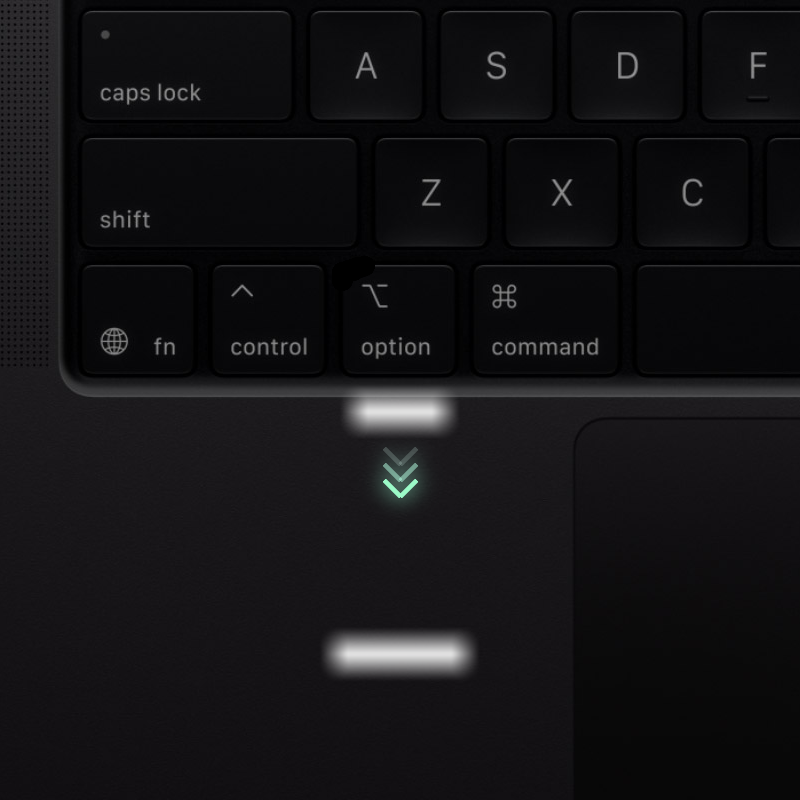
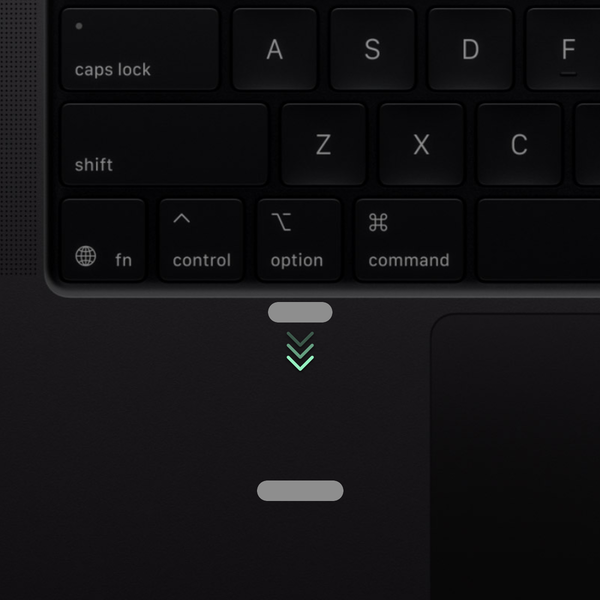
Redesign the DMG installer window smaller and cleaner [deploy]
- Shrink the window to 600x660 with 108 pt icons and 12 pt labels
- Replace the baked white label glows with compact mid-gray pills
- Swap the chevron bloom for a subtle drop shadow
- Update the layout verifier, infrastructure doc and art recipe

Changed region(s): [[0.42, 0.48, 0.57, 0.63], [0.39, 0.78, 0.6, 0.87]]

diff --git a/yen-terminal/customizations/dmg-resources/README.md b/yen-terminal/customizations/dmg-resources/README.md
@@ -5,41 +5,38 @@ The frozen window layout and packaging rules are in `_docs/05-infrastructure.md`
 
 | File | Size | Role |
 |------|------|------|
-| `background.png` | 800x800 | 1x background |
-| `background@2x.png` | 1600x1600 | 2x background |
+| `background.png` | 600x600 | 1x background |
+| `background@2x.png` | 1200x1200 | 2x background |
 
 Both must be opaque RGB: with an alpha channel, Finder's `set background picture` silently stores a background color instead of the image.
-The art is icon-only, with no baked labels; the three chevrons sit between the `YEN.app` and `Applications` icons.
+The art carries no baked label text.
+It has a mid-gray pill under each Finder label and three chevrons with a subtle drop shadow between the `YEN.app` and `Applications` icons.
+The pill rectangles match Finder's label boxes at icon size `108` and text size `12`; move them if the layout changes.
 
 ## Regenerating
 
-The source frame is `public/dmg-frame-2.png`.
+The source frame is `public/dmg-frame.png`.
+The art is drawn at 2x and then downscaled for 1x.
 
 ```bash
-magick public/dmg-frame-2.png \
-  \( -size 800x800 xc:none -fill none -stroke 'rgba(171,245,224,0.13)' -strokewidth 10 \
-     -draw "line 382,448 400,464 line 400,464 418,448" -blur 0x8 \) \
-  -compose screen -composite \
-  \( -size 800x800 xc:none -fill none -stroke 'rgba(155,248,215,0.30)' -strokewidth 10 \
-     -draw "line 382,464 400,480 line 400,480 418,464" -blur 0x9 \) \
-  -compose screen -composite \
-  \( -size 800x800 xc:none -fill none -stroke 'rgba(146,253,207,0.55)' -strokewidth 10 \
-     -draw "line 382,480 400,496 line 400,496 418,480" -blur 0x10 \) \
-  -compose screen -composite \
-  -fill none -stroke 'rgba(213,244,235,0.20)' -strokewidth 4 \
-  -draw "line 384,448 400,464 line 400,464 416,448" \
-  -stroke 'rgba(178,250,222,0.52)' \
-  -draw "line 384,464 400,480 line 400,480 416,464" \
-  -stroke 'rgba(157,253,202,0.98)' \
-  -draw "line 384,480 400,496 line 400,496 416,480" \
-  -alpha off -strip \
-  yen-terminal/customizations/dmg-resources/background.png
-magick yen-terminal/customizations/dmg-resources/background.png \
-  -resize 200% -alpha off -strip \
-  yen-terminal/customizations/dmg-resources/background@2x.png
-sips -g pixelWidth -g pixelHeight \
-  yen-terminal/customizations/dmg-resources/background.png \
-  yen-terminal/customizations/dmg-resources/background@2x.png
+P="stroke-linecap round stroke-linejoin round"
+C1="$P polyline 576,666 600,690 624,666"
+C2="$P polyline 576,690 600,714 624,690"
+C3="$P polyline 576,714 600,738 624,714"
+OUT=yen-terminal/customizations/dmg-resources
+magick public/dmg-frame.png -resize 1200x1200 \
+  -fill '#8e8e8e' -stroke none \
+  -draw "roundrectangle 536,604 664,644 20,20" \
+  -draw "roundrectangle 514,961 686,1001 20,20" \
+  \( -size 1200x1200 xc:none -fill none -stroke 'rgba(0,0,0,0.6)' -strokewidth 6 \
+     -draw "$C1" -draw "$C2" -draw "$C3" -blur 0x3 -roll +0+3 \) -compose over -composite \
+  -fill none -strokewidth 6 \
+  -stroke 'rgba(157,253,202,0.30)' -draw "$C1" \
+  -stroke 'rgba(157,253,202,0.60)' -draw "$C2" \
+  -stroke 'rgba(157,253,202,0.95)' -draw "$C3" \
+  -alpha off -strip "$OUT/background@2x.png"
+magick "$OUT/background@2x.png" -resize 600x600 -alpha off -strip "$OUT/background.png"
+sips -g pixelWidth -g pixelHeight -g hasAlpha "$OUT/background.png" "$OUT/background@2x.png"
 ```
 
 Then run `scripts/manual/14-verify-dmg-layout.sh` against a fresh packaging build.

diff --git a/_docs/05-infrastructure.md b/_docs/05-infrastructure.md
@@ -156,10 +156,11 @@ The Debug and ReleaseLocal files also carry `com.apple.security.cs.disable-libra
 
 Frozen installer layout, enforced by `scripts/manual/14-verify-dmg-layout.sh`:
 
-- Icon view with toolbar and status bar hidden, arrangement `not arranged`, window `815x860`.
-- Icon size `144` (full-bleed opaque icons read oversized at `124`), label size `16`.
-- `YEN.app {400,321}`, `Applications {400,560}`; `.background {400,1008}` and `.fseventsd {400,1048}` parked below the frame.
-- `background.png` (800x800) and `background@2x.png` (1600x1600) from `public/dmg-frame-2.png`, icon-only art with no baked labels. The chevron recipe lives in `yen-terminal/customizations/dmg-resources/README.md`.
+- Icon view with toolbar and status bar hidden, arrangement `not arranged`, window `600x660`.
+- Icon size `108`, label size `12`.
+- `YEN.app {300,241}`, `Applications {300,420}`; `.background {300,760}` and `.fseventsd {300,800}` parked below the frame.
+- `background.png` (600x600) and `background@2x.png` (1200x1200) from `public/dmg-frame.png`, with no baked labels. The recipe lives in `yen-terminal/customizations/dmg-resources/README.md`.
+- Finder draws icon labels in the system text color (black in Light Mode, white in Dark Mode), and a DMG cannot change it. The art puts a mid-gray pill under each label so both stay readable; without a backing, Light Mode labels vanish on the dark art.
 - An `/Applications` symlink for drag install.
 
 Packaging rules:
